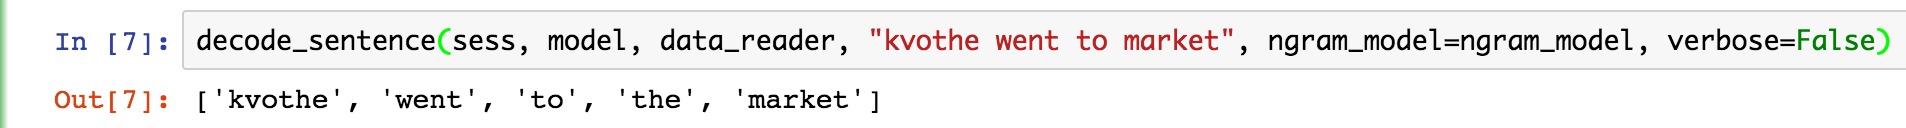
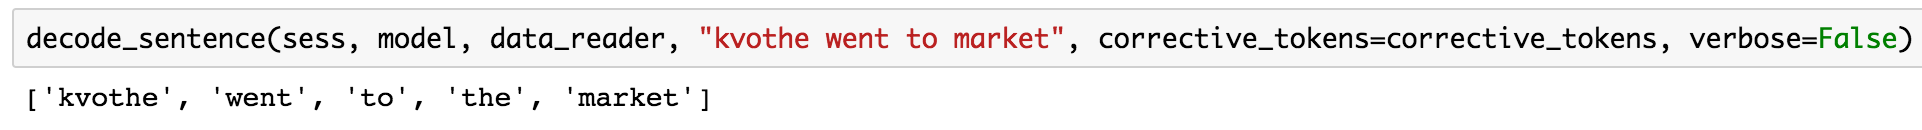
Updated README

Changed region(s): [[0.0, 0.0, 1.0, 1.0]]

diff --git a/README.md b/README.md
@@ -10,19 +10,25 @@ The goal of this project is to train sequence-to-sequence models that are capabl
 ## Correcting Grammatical Errors with Deep Learning
 The basic idea behind this project is that we can generate large training data sets for the task of grammar correction by starting with grammatically correct samples and introducing small errors to produce input-output pairs.
 
-Instead of using the most probable decoding according to the seq2seq model, this project takes advantage of the unique structure of the problem in a post-processing step that biases the final decoding toward the original input sequence.
-Specifically, it imposes the prior that all tokens in a decoded sequence should either exist in the input sequence or belong to a set of "corrective" tokens, where the "corrective" token set contains all tokens seen in the target, but not the source, for at least one sample in the training set. The intuition here is that the errors seen during training involve the misuse of a relatively small vocabulary of common words (e.g. "the", "an", "their") and that the model should only be allowed to perform corrections in this domain.
+Instead of using the most probable decoding according to the seq2seq model, this project takes advantage of the unique structure of the problem to impose the prior that all tokens in a decoded sequence should either exist in the input sequence or belong to a set of "corrective" tokens. The "corrective" token set is constructed during training and contains all tokens seen in the target, but not the source, for at least one sample in the training set. The intuition here is that the errors seen during training involve the misuse of a relatively small vocabulary of common words (e.g. "the", "an", "their") and that the model should only be allowed to perform corrections in this domain.
 
-### `InputBiasedLanguageModel`
-TODO
+This prior is carried out through a modification to the seq2seq model's decoding loop in addition to a post-processing step that resolves out-of-vocabulary (OOV) tokens:
+
+### Biased Decoding
+To restrict the decoding such that it only ever chooses tokens from the input sequence or corrective token set, this project applies a binary mask to the model's logits prior to extracting the prediction to be fed into the next time step. This mask is constructed such that `mask[i] == 1.0 if (i in input or corrective_tokens) else 0.0`. Since this mask is applited to the result of a softmax transormation (which guarantees all outputs are non-negative), we can be sure that only input or corrective tokens are ever selected.
+
+Note that this logic is not used during training, as this would only serve to eliminate potentially useful signal from the model.
+
+### Handling OOV Tokens
+Since the decoding bias described above is applied within the truncated vocabulary used by the model, we will still see the unknown token in its output for any OOV tokens. The more generic problem of resolving these OOV tokens is non-trivial (e.g. see [Addressing the Rare Word Problem in NMT](https://arxiv.org/pdf/1410.8206v4.pdf)), but in this project we can again take advantage of its unique structure to create a fairly straightforward OOV token resolution scheme. That is, if we assume the sequence of OOV tokens in the input is equal to the sequence of OOV tokens in the output sequence, then we can trivially assign the appropriate token to each "unknown" token encountered int he decoding. Empirically, and intuitively, this appears to be an appropriate assumption, as the relatively simple class of errors these models are being trained to address should never include mistakes that warrant the insertion or removal of a rare token.
 
 ## Implementation
 This project reuses and slightly extends TensorFlow's [`Seq2SeqModel`](https://github.com/tensorflow/tensorflow/blob/master/tensorflow/models/rnn/translate/seq2seq_model.py), which itself implements a sequence-to-sequence model with an attention mechanism as described in https://arxiv.org/pdf/1412.7449v3.pdf. The primary contributions of this project are:
 
 - `data_reader.py`: an abstract class that defines the interface for classes which are capable of reading a source data set and producing input-output pairs, where the input is a grammatically incorrect variant of a source sentence and the output is the original sentence.
 - `text_correcter_data_readers.py`: contains a few implementations of `DataReader`, one over the [Penn Treebank dataset](https://www.google.com/url?q=http://www.fit.vutbr.cz/~imikolov/rnnlm/simple-examples.tgz&usg=AFQjCNG0IP5OHusdIAdJIrrem-HMck9AzA) and one over the [Cornell Movie-Dialogs Corpus](http://www.cs.cornell.edu/~cristian/Cornell_Movie-Dialogs_Corpus.html).
-- `text_correcter_models.py`: contains a slightly modified version of `Seq2SeqModel` in addition to a custom language model, `InputBiasedLanugageModel`, which is used in post-processing of the decoding derived from the sequence-to-sequence model. See [InputBiasedLanguageModel](https://github.com/atpaino/deep-text-correcter#inputbiasedngrammodel) for details on how these two models are combined to produce the final corrected sequence.
-- `correct_text.py`: a collection of helper functions that together allow for the training of a model and the usage of it to decode errant input sequences (at test time). This also defines a main method, and can be invoked from the command line. It was largely derived from TensorFlow's [`translate.py`](https://github.com/tensorflow/tensorflow/blob/master/tensorflow/models/rnn/translate/translate.py).
+- `text_correcter_models.py`: contains a version of `Seq2SeqModel` modified such that it implements the logic described in [Biased Decoding](#biased-decoding)
+- `correct_text.py`: a collection of helper functions that together allow for the training of a model and the usage of it to decode errant input sequences (at test time). The `decode` method defined herein implements the [OOV token resolution logic](#handling-oov-tokens). This also defines a main method, and can be invoked from the command line. It was largely derived from TensorFlow's [`translate.py`](https://github.com/tensorflow/tensorflow/blob/master/tensorflow/models/rnn/translate/translate.py).
 - `TextCorrecter.ipynb`: an IPython notebook which ties together all of the above pieces to allow for the training and evaluation of the model in an interactive fashion.
 
 ### Example Usage
@@ -34,8 +40,35 @@ TODO
 Decoding a sentence with a missing article:
 ![Example sentence correction](example_correction.png)
 
-Example of the `InputBiasedLanguageModel` adjusting probabilities and avoiding a mistake (i.e. avoiding decoding "heart" when the correct token is "girlfriend"):
-![Example of the input biased language model in action](example_adjusting_probs.png)
+Decoding a sentence with then/than confusion:
+![Example sentence correction](example_then_than_correction.png)
 
 ### Aggregate Performance
-TODO
+Below are reported the BLEU and accuracy numbers over a test data set for both a trained model and a baseline, where:
+- The model is a 2-layer, 512 hidden unit LSTM model trained with a vocabulary of 2k
+- The baseline is the "do nothing" model; i.e. the identity function which assumes no errors exist in the input
+
+You'll notice that the model outperforms this baseline for all bucket sizes in terms of accuracy, and outperforms all but one in terms of BLEU score. This demonstrates the model is capable of providing value.
+
+```
+Bucket 0: (10, 10)
+        Baseline BLEU = 0.8341
+        Model BLEU = 0.8516
+        Baseline Accuracy: 0.9083
+        Model Accuracy: 0.9384
+Bucket 1: (15, 15)
+        Baseline BLEU = 0.8850
+        Model BLEU = 0.8860
+        Baseline Accuracy: 0.8156
+        Model Accuracy: 0.8491
+Bucket 2: (20, 20)
+        Baseline BLEU = 0.8876
+        Model BLEU = 0.8880
+        Baseline Accuracy: 0.7291
+        Model Accuracy: 0.7817
+Bucket 3: (40, 40)
+        Baseline BLEU = 0.9099
+        Model BLEU = 0.9045
+        Baseline Accuracy: 0.6073
+        Model Accuracy: 0.6425
+```
